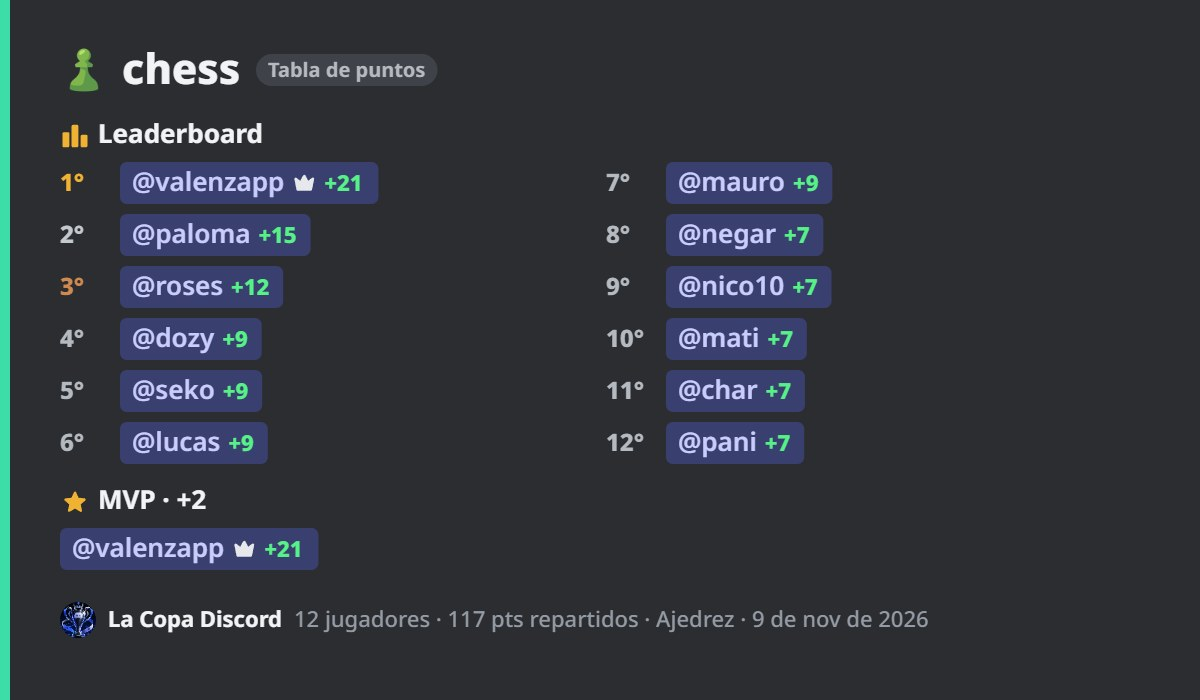
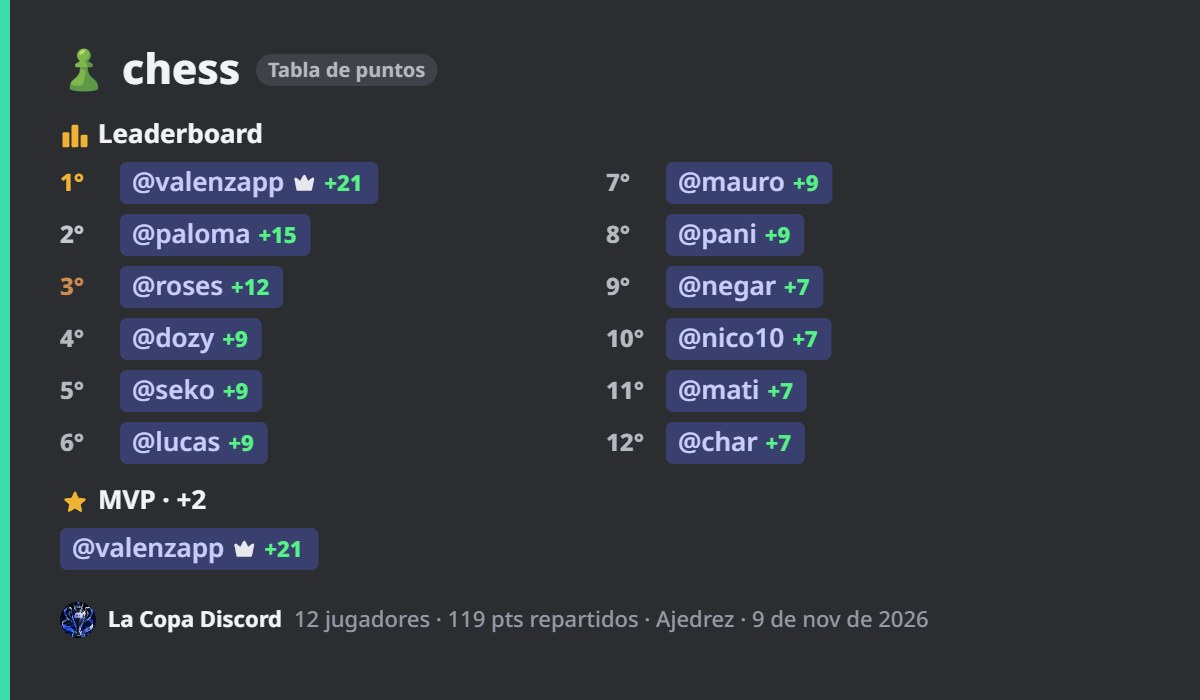
Actualizar tabla desde el modo admin

Changed region(s): [[0.5858, 0.3, 0.7092, 0.51], [0.5858, 0.6, 0.6475, 0.66], [0.5858, 0.54, 0.6783, 0.57]]

diff --git a/p/mmwbnz4fmbhv4.html b/p/mmwbnz4fmbhv4.html
@@ -2,9 +2,9 @@
 <meta name="viewport" content="width=device-width,initial-scale=1">
 <meta property="og:site_name" content="La Copa Discord"><meta property="og:type" content="website">
 <meta property="og:title" content="chess · La Copa Discord"><meta property="og:description" content="1° valenzapp +21 · 2° paloma +15 · 3° roses +12 · 4° dozy +9 · 5° seko +9 … · MVP valenzapp · 9 de nov de 2026">
-<meta property="og:url" content="https://atlasgitgud.github.io/copa-discord/p/mmwbnz4fmbhv4.html"><meta property="og:image" content="https://atlasgitgud.github.io/copa-discord/p/mmwbnz4fmbhv4.jpg?v=mwbnz6b4cm">
+<meta property="og:url" content="https://atlasgitgud.github.io/copa-discord/p/mmwbnz4fmbhv4.html"><meta property="og:image" content="https://atlasgitgud.github.io/copa-discord/p/mmwbnz4fmbhv4.jpg?v=mwbo5dq8ho">
 <meta property="og:image:width" content="1200"><meta property="og:image:height" content="700">
-<meta name="twitter:card" content="summary_large_image"><meta name="twitter:image" content="https://atlasgitgud.github.io/copa-discord/p/mmwbnz4fmbhv4.jpg?v=mwbnz6b4cm">
+<meta name="twitter:card" content="summary_large_image"><meta name="twitter:image" content="https://atlasgitgud.github.io/copa-discord/p/mmwbnz4fmbhv4.jpg?v=mwbo5dq8ho">
 <meta name="theme-color" content="hsl(160,70%,55%)">
 <meta http-equiv="refresh" content="0; url=../#p=mmwbnz4fmbhv4"></head>
 <body style="background:#313338;color:#dbdee1;font-family:system-ui,sans-serif"><script>location.replace('../#p=mmwbnz4fmbhv4')</script><p><a style="color:#00a8fc" href="../#p=mmwbnz4fmbhv4">Ver la partida en La Copa Discord</a></p></body></html>

diff --git a/data.js b/data.js
@@ -1,6 +1,6 @@
 // Datos de La Copa Discord. Se edita desde el canal #admin de la página.
 window.COPA_DATA = {
- "updatedAt": 1794374045104,
+ "updatedAt": 1794374334657,
  "players": [
   "agus",
   "alan",
@@ -1255,11 +1255,11 @@ window.COPA_DATA = {
     "seko",
     "lucas",
     "mauro",
+    "pani",
     "negar",
     "nico10",
     "mati",
-    "char",
-    "pani"
+    "char"
    ],
    "winners": [
     "valenzapp"
@@ -1275,11 +1275,11 @@ window.COPA_DATA = {
     "seko",
     "lucas",
     "mauro",
+    "pani",
     "negar",
     "nico10",
     "mati",
-    "char",
-    "pani"
+    "char"
    ],
    "pts": {
     "valenzapp": 19,
@@ -1289,11 +1289,11 @@ window.COPA_DATA = {
     "seko": 9,
     "lucas": 9,
     "mauro": 9,
+    "pani": 9,
     "negar": 7,
     "nico10": 7,
     "mati": 7,
-    "char": 7,
-    "pani": 7
+    "char": 7
    }
   }
  ],
@@ -1381,8 +1381,8 @@ window.COPA_DATA = {
    "sig": "1ywhems"
   },
   "mmwbnz4fmbhv4": {
-   "v": "mwbnz6b4cm",
-   "sig": "kc1e4c"
+   "v": "mwbo5dq8ho",
+   "sig": "zif8o0"
   }
  }
 };
